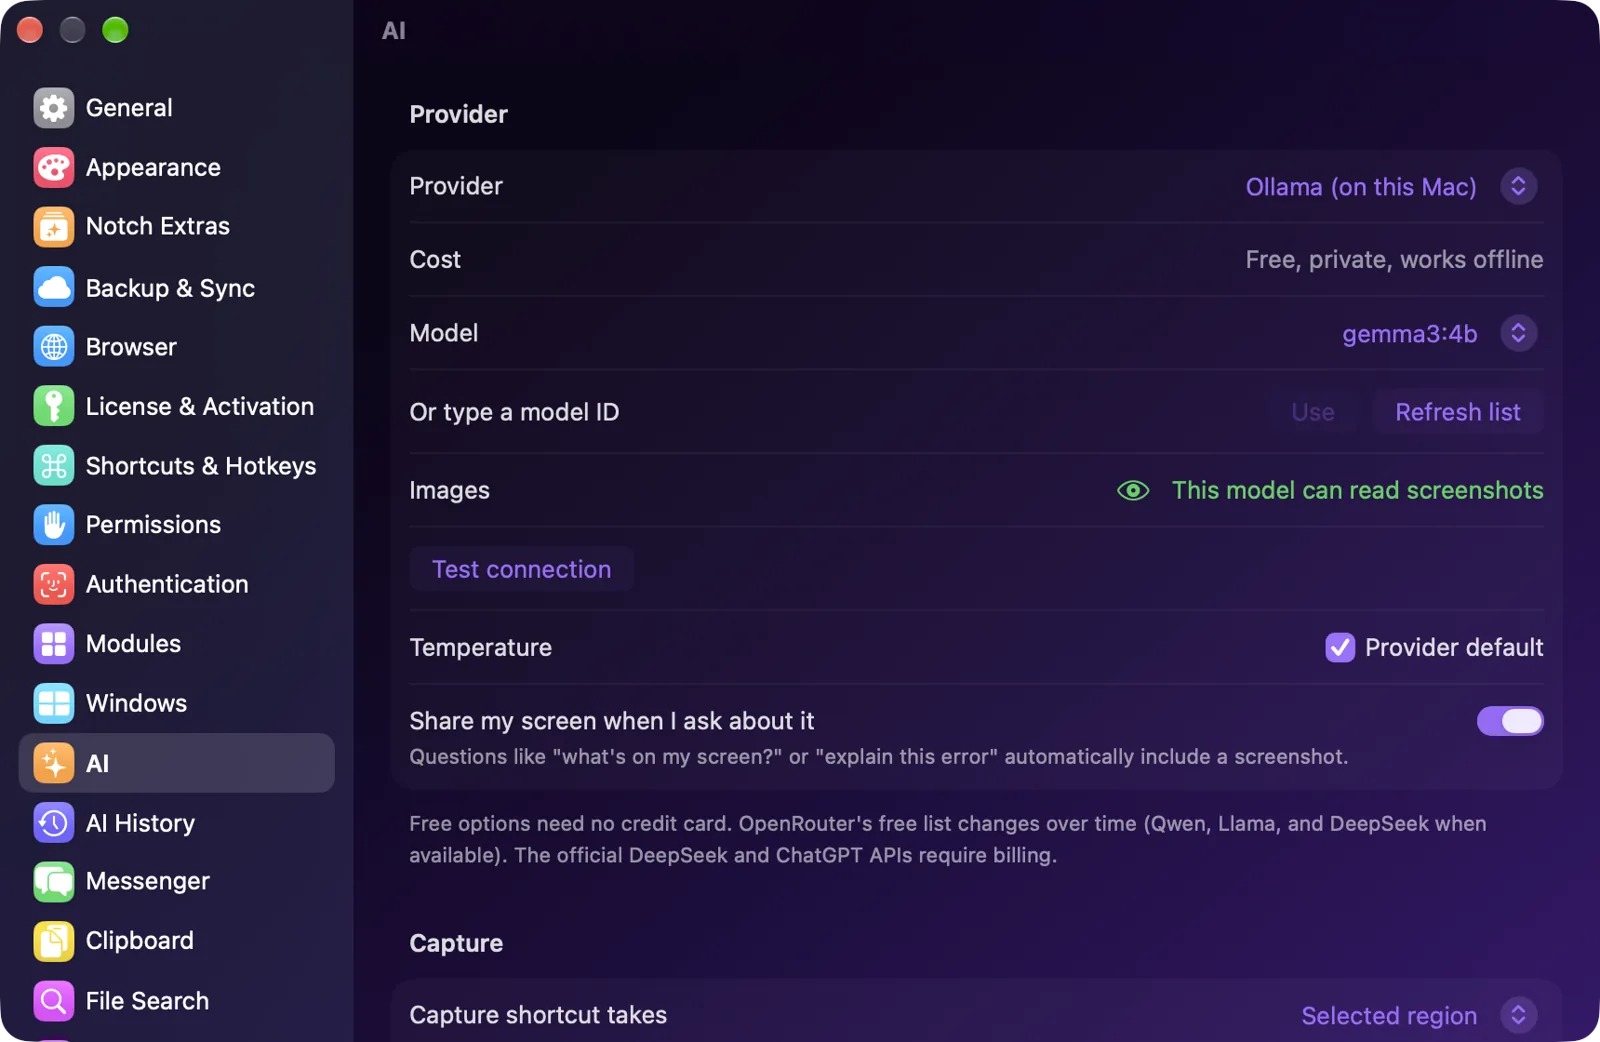
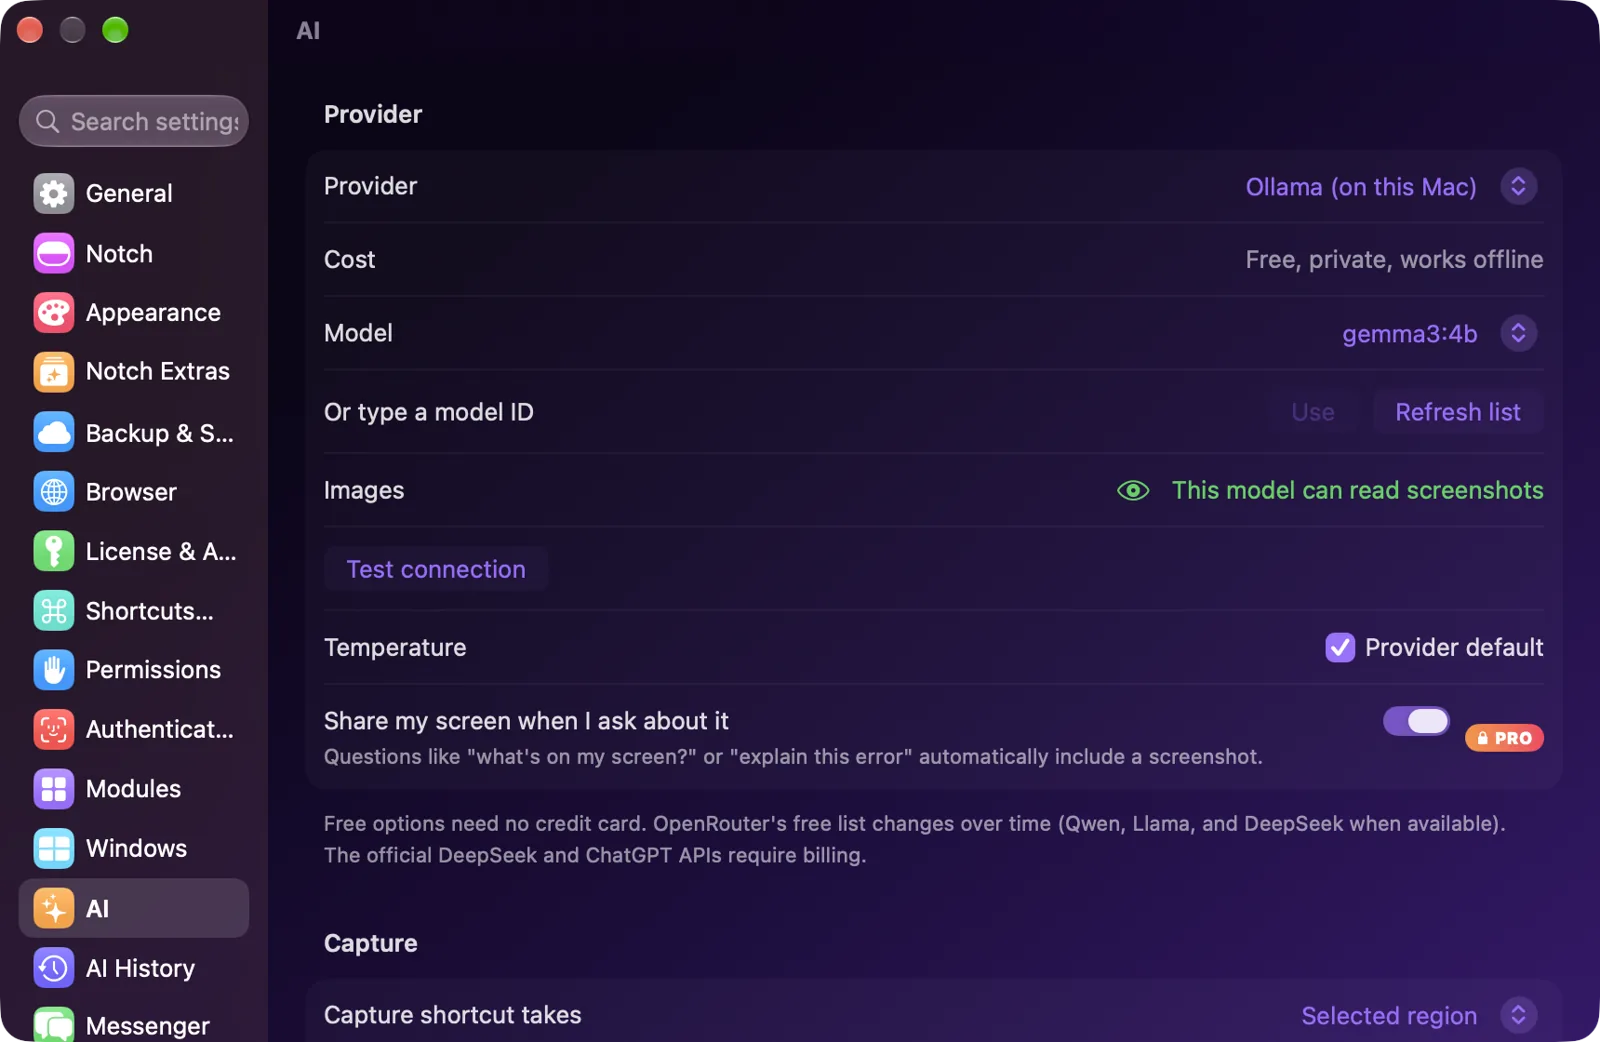
Site: 1.17–1.22 (all six phases), new screenshots, pricing lists what each tier has now

diff --git a/index.html b/index.html
@@ -770,7 +770,7 @@ nav .links a.donate{color:var(--p3)}
   <div class="ch">
     <figure class="frame"><img loading="lazy" src="assets/screenshots/pro.webp" width="1480" height="840" alt="A Pro tab in the notch, locked: it says what the Launcher does, shows a PRO badge and a field to paste a key, with links to get Pro for one dollar once, recover a lost key or compare tiers"><figcaption>Locked features say what they do and which tier unlocks them.</figcaption></figure>
     <div class="ch-text reveal">
-      <ul><li><b>Pro:</b> ask AI about your screen, images and PDFs, AI history, Messenger, Audio, VPN, Launcher, Snippets, Mirror, Focus, sync and more</li><li><b>Ultimate:</b> everything in Pro plus the platform: Live Activities API, plugin SDK, priority support and the beta channel as they ship</li><li>Your key is signed and checked on your Mac, offline; it works on up to 3 of your Macs and is emailed to you</li></ul>
+      <ul><li><b>Pro:</b> AI about your screen, web search with sources, personas and voice; Home dashboard, profiles, command palette, text expander, markup; Markets, flight status, 22 themes and more</li><li><b>Ultimate:</b> everything in Pro plus the platform: Live Activities API, two activities at once, AI automations, plugin SDK and gallery, scripting, notes sync, beta channel and priority support</li><li>Your key is signed and checked on your Mac, offline; it works on up to 3 of your Macs and is emailed to you</li></ul>
       <div class="cta" style="justify-content:flex-start;margin-top:24px"><a class="btn" href="pro.html">See pricing</a><a class="btn ghost" href="pro.html#promo">I have a promo code</a></div>
     </div>
   </div>
@@ -791,7 +791,7 @@ nav .links a.donate{color:var(--p3)}
 <section id="download"><div class="wrap">
   <div class="install dl reveal">
     <span class="eyebrow">Download</span>
-    <p class="ver" id="dlVer">Latest version · <b>Notch apple 1.16.0</b></p>
+    <p class="ver" id="dlVer">Latest version · <b>Notch apple 1.22.0</b></p>
     <div class="big">Download for <span class="grad">macOS</span></div>
     <div class="cta">
       <a class="btn" id="dlBtn" href="https://github.com/AdityaJainDXB/NotchApples/releases/latest"><svg aria-hidden="true"><use href="#dl"/></svg> <span>Download for macOS</span></a>
@@ -944,6 +944,8 @@ const R='https://raw.githubusercontent.com/AdityaJainDXB/NotchApples/main/docs/s
 const shots=[
  ['AI','ai-empty','AI','Capture, paste, selected text, or ask',1],['AI','capture-overlay','Capture','Drag over anything on screen',1],['AI','ai-input','Pick an action','Suggested from a look at the text',1],
  ['AI','ai-result','Answer','Readable maths, streamed in',1],['AI','follow-up','Follow-ups','The image is remembered',1],['AI','code-analysis','Code','Explain and fix errors',1],
+ ['AI','ai-web','Web search','Pro · answers cite their sources',1],['Notch','home','Home','Pro · your own dashboard of widgets',1],['Notch','palette','Command palette','Pro · ⌃⌥P runs anything',1],['Notch','markets','Markets','Pro · stocks and crypto',1],['Notch','notch-stacked','Two at once','Ultimate · timer and your build',1],['Notch','notes-todo','To-do','Free · Reminders sync with Pro',1],['Notch','tools-convert','Converter','Pro · units and currencies',1],
+ ['Settings','settings-notch','Notch','Hover, fullscreen, size, gestures',1],['Settings','settings-themes','Themes','22 themes and your own',1],['Settings','settings-profiles','Profiles','Pro · by app or time of day',1],['Settings','settings-privacy','Privacy','Everything it can access',1],['Settings','settings-help','Help & Feedback','Reviewed before it\'s sent',1],['Settings','onboarding','Welcome','Four short steps',1],
  ['AI','history','History','Search, reopen, export',1],['Notch','sports','Sports','Your team, fixtures, table',1],['Notch','sports-detail','Match details','Goals, cards, lineups',1],['Notch','sports-table','League table','Next to the fixtures',1],['Notch','sports-cricket','Cricket','India and the IPL',1],['Notch','games','Games','2048, Snake, reaction test',1],['AI','settings-ai','AI settings','Providers, Test connection, privacy',1],['Get Pro','pro','Unlock Pro','In the notch',1],['Notch','f1','F1','Live timing, schedule, standings',1],
  ['Notch','nowplaying','Now Playing','Any app · album cover · controls'],['Notch','island-music','Music beside the notch','Album cover and live bars'],['Notch','island-charging','Charging','Time to full, in words'],
  ['Notch','voice-notes','Voice Notes','Pro · transcribed on your Mac'],['Notch','screen-time','Screen Time','Pro · limits and Focus Blocker'],['Notch','quick-add','Quick Add','Pro · Calendar and Reminders'],
@@ -1015,6 +1017,12 @@ function qr(){if(window.QRCode)new QRCode($('#donateQr'),{text:'litecoin:'+$('#l
 
 // What's New, newest first; older releases folded away.
 const REL=[
+ ['1.22.0','4 October 2026','Trust, and a few more extras',['Settings → Privacy shows every permission and connection','Bug reports and crash reports you review first','Pro: week forecast, meeting planner, mic mute, top apps','Ultimate: beta channel, priority support, notes sync'],'settings-privacy'],
+ ['1.21.0','4 October 2026','Make it yours',['Pro: Home dashboard, profiles, per-app rules','Pro: animation styles, sounds, fonts, menu bar icon','Ultimate: plugin SDK and gallery'],'home'],
+ ['1.20.0','4 October 2026','Get more done',['To-do list for everyone','Pro: command palette, text expander, markup, ruler, converter','Ultimate: notch command for Terminal'],'palette'],
+ ['1.19.0','4 October 2026','A smarter assistant',['Apple Intelligence, free and on your Mac','Pro: web search with sources, personas, slash commands, voice','Ultimate: AI automations'],'ai-web'],
+ ['1.18.0','4 October 2026','More live activities',['Meeting pulse','Pro: Markets, flight status, more teams','Ultimate: Live Activities API, two at once'],'notch-stacked'],
+ ['1.17.0','4 October 2026','A notch that fits how you work',['Hide in fullscreen apps, hover delay, keyboard control','Welcome tour and Settings search','Pro: resize, edge zones, gestures, 22 themes'],'settings-notch'],
  ['1.16.0','4 October 2026','Free, Pro and Ultimate',['Pay once: Pro is $1, Ultimate is $5; no subscription, every 1.x update included','AI is free with your own key or Ollama; screen, files and history are Pro','Signed keys checked offline, emailed to you, on up to 3 Macs','Older keys keep working as Pro'],'pro'],
  ['1.15.3','3 October 2026','Clearer cricket scores',['Each side\'s score under its name, LIVE or Result between them, and the match status on its own line'],'sports-cricket'],
  ['1.15.2','3 October 2026','Windows, charts and a full view',['Capture a single window, even if others overlap it','Charts and tables are recognised, with Explain, Summarize and Extract suggested','Open full view: a resizable window for long answers','First-run AI setup with Test connection','AI temperature, and System, Light or Dark for the Settings window']],

diff --git a/pro.html b/pro.html
@@ -100,11 +100,12 @@ footer{border-top:1px solid var(--line2);padding:28px 0 40px;color:var(--dim);fo
     <div class="plan">
       <h3>Pro</h3><div class="pr">$1<small>once</small></div><p class="sub">Power, depth and polish.</p>
       <ul>
-        <li>Ask AI about your screen (⌃⌥S), selected text, images and PDFs</li>
-        <li>AI history with search and export</li>
-        <li>Messenger, Audio, VPN, Voice Notes, Screen Time, Quick Add</li>
-        <li>Launcher, Snippets, Mirror, Focus timer</li>
-        <li>Meeting alerts, download progress, rain alerts, lyrics, sync across Macs</li>
+        <li>AI about your screen, images and PDFs; web search with sources; personas, slash commands, voice</li>
+        <li>Home dashboard, profiles, per-app rules, command palette (⌃⌥P)</li>
+        <li>Text expander, screenshot markup, ruler, unit and currency converter</li>
+        <li>Markets, live flight status, more teams, week forecast, meeting planner</li>
+        <li>22 themes and a theme editor, resize, gestures, edge zones, styles</li>
+        <li>Messenger, Audio, VPN, Voice Notes, Screen Time, Launcher, Snippets, Mirror, Focus, sync</li>
       </ul>
       <button class="btn" data-buy="pro">Get Pro, $1</button>
     </div>
@@ -113,12 +114,14 @@ footer{border-top:1px solid var(--line2);padding:28px 0 40px;color:var(--dim);fo
       <h3>Ultimate</h3><div class="pr">$5<small>once</small></div><p class="sub">Everything in Pro, plus the platform.</p>
       <ul>
         <li>Everything in Pro</li>
-        <li class="soon">Live Activities API for your own apps and scripts</li>
-        <li class="soon">Plugin SDK and community widgets</li>
-        <li class="soon">iCloud sync of notes and themes; iPhone and Watch companions</li>
-        <li class="soon">Priority support and the beta channel</li>
+        <li>Live Activities API for your own apps and scripts, two activities at once</li>
+        <li>AI automations on a schedule</li>
+        <li>Plugin SDK and the community plugin gallery</li>
+        <li><code>notch</code> command and scripting, notes and to-dos in iCloud</li>
+        <li>Priority support and the beta channel</li>
+        <li class="soon">iPhone and Watch companions</li>
       </ul>
-      <p class="muted" style="font-size:12.5px;margin-top:8px">◷ arrives in upcoming free updates. Already have Pro? Upgrade for $4.</p>
+      <p class="muted" style="font-size:12.5px;margin-top:8px">◷ planned. Already have Pro? Upgrade for $4.</p>
       <button class="btn" data-buy="ultimate" id="ultBtn">Get Ultimate, $5</button>
     </div>
   </div>
@@ -242,12 +245,12 @@ const sleep = ms => new Promise(r => setTimeout(r, ms));
 
 // Comparison table
 const ROWS = [
-  ['Notch'], ['Spring animations, hover / click / hotkey, menu bar, launch at login', 1], ['Notch on Macs without a notch', 1], ['Notch size', 'soon2'],
-  ['Live activities'], ['Now Playing, visualizer, timers, battery, AirPods, volume HUD', 1], ['Live scores, followed team, F1 live timing', 1], ['Calendar countdown', 1], ['Meeting alerts with Join', 2], ['Download progress', 2], ['Live Activities API, two at once', 'soon3'],
-  ['AI'], ['Ask anything, follow-ups, copy / regenerate / stop', 1], ['Choose provider, your own key, on-device Ollama', 1], ['Ask about the screen (⌃⌥S) or selected text', 2], ['Images and PDFs', 2], ['History with search and export', 2],
-  ['Productivity'], ['Clipboard history, notes, file shelf, AirDrop', 1], ['Window snapping, screenshots, Shortcuts', 1], ['Launcher, Snippets, Focus timer, Quick Add', 2],
-  ['System and media'], ['CPU/RAM, weather, world clock, caffeine', 1], ['Rain alerts, lyrics, Mirror', 2], ['Messenger, Audio, VPN, Voice Notes, Screen Time', 2],
-  ['Platform'], ['Updates, What\'s New, backup and restore', 1], ['Sync across Macs', 2], ['Plugin SDK, priority support, beta channel', 'soon3'],
+  ['Notch'], ['Spring animations, hover / click / hotkey, menu bar, launch at login', 1], ['Hide in fullscreen apps, hover delay, keyboard control', 1], ['Notch on Macs without a notch', 1], ['Resize, edge trigger zones, tabs per display, custom gestures', 2],
+  ['Live activities'], ['Now Playing, visualizer, timers, battery, AirPods, volume HUD', 1], ['Live scores, followed team, F1 live timing', 1], ['Meeting alerts, download progress, Markets, flight status, more teams', 2], ['Live Activities API, two activities at once', 3],
+  ['AI'], ['Ask anything, follow-ups, your own key, Ollama, Apple Intelligence', 1], ['Screen and files, history, web search, personas, slash commands, voice', 2], ['Automations on a schedule', 3],
+  ['Productivity'], ['Clipboard history, notes, to-do, file shelf, AirDrop, Text Grab', 1], ['Window snapping, screenshots, Shortcuts, calculator', 1], ['Command palette, text expander, markup, ruler, converter, Reminders', 2], ['notch command and scripting', 3],
+  ['Customization'], ['Light/dark Settings, 14 themes, tab order', 1], ['22 themes, theme editor, Home dashboard, profiles, per-app rules, styles', 2], ['Plugin SDK and gallery', 3],
+  ['Platform'], ['Updates, What\'s New, backup, Privacy dashboard, feedback', 1], ['Sync settings across Macs', 2], ['Notes and to-dos in iCloud, beta channel, priority support', 3], ['iPhone and Watch companions', 'soon3'],
 ];
 $('#cmp').innerHTML = ROWS.map(r => r.length === 1 ? `<tr class="grp"><td colspan="4">${r[0]}</td></tr>` :
   `<tr><td>${r[0]}</td>${[1, 2, 3].map(t => { const v = r[1], soon = typeof v === 'string', min = soon ? +v.slice(-1) : v;
